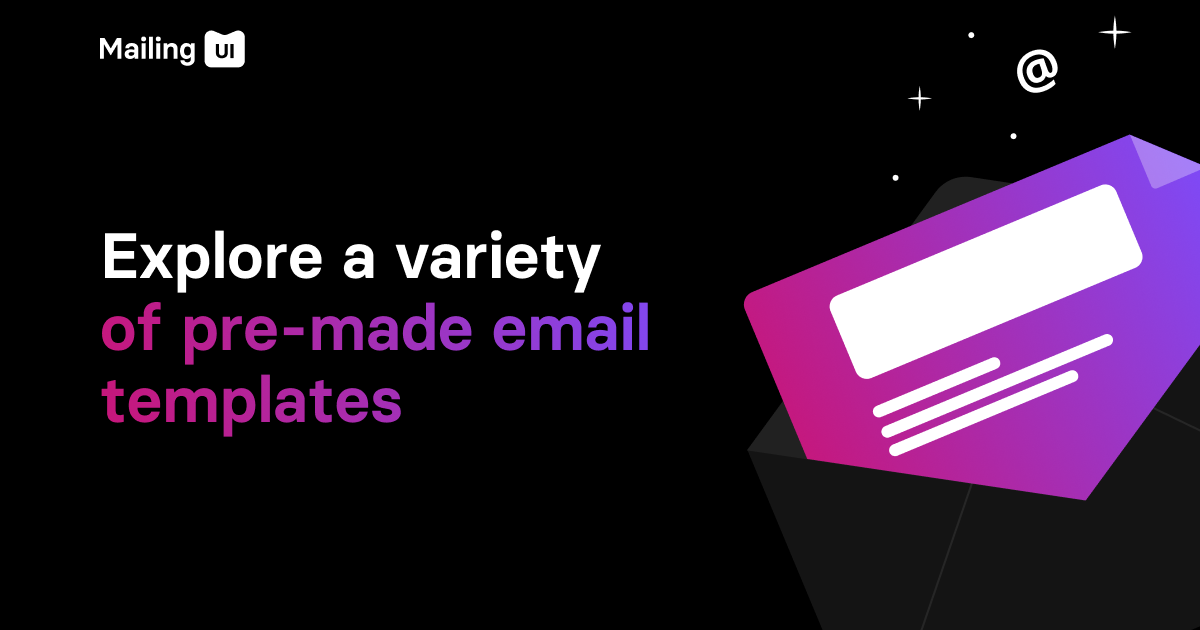
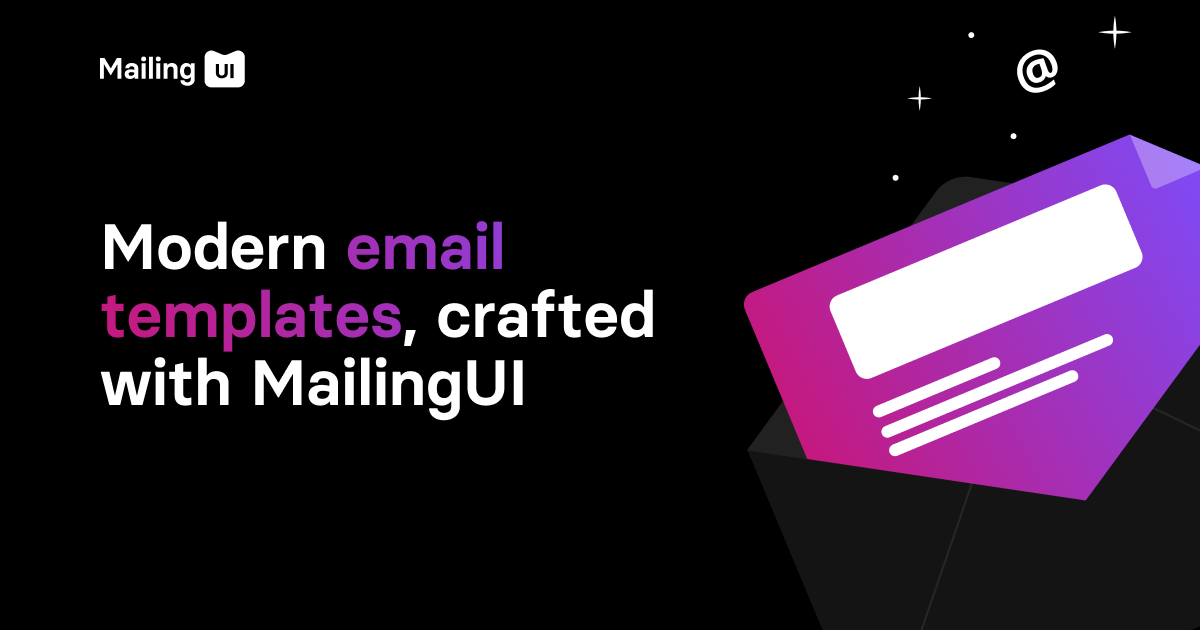
Updating meta

Changed region(s): [[0.0617, 0.3317, 0.555, 0.6937], [0.0617, 0.0302, 0.2158, 0.1508]]

diff --git a/src/components/landing/Homepage.tsx b/src/components/landing/Homepage.tsx
@@ -110,7 +110,7 @@ export const Homepage = () => {
         <header className="mx-auto lg:text-center">
           <h2 className="font-semibold uppercase text-gray-400">Components</h2>
           <h3 className="mx-auto text-5xl font-semibold tracking-tight lg:text-6xl">
-            Build an eye-catching email with pre-made components
+            Build eye-catching emails with pre-made components
           </h3>
         </header>
         <div>

diff --git a/theme.config.jsx b/theme.config.jsx
@@ -38,7 +38,7 @@ const theme = {
 
     const getOgImage = () => {
       if (asPath.includes("/blog")) return basePath + "/images/og/blog.png";
-      if (asPath.includes("/docs"))
+      if (asPath.includes("/components"))
         return basePath + "/images/og/components.png";
       if (asPath.includes("/feedback"))
         return basePath + "/images/og/feedback.png";
